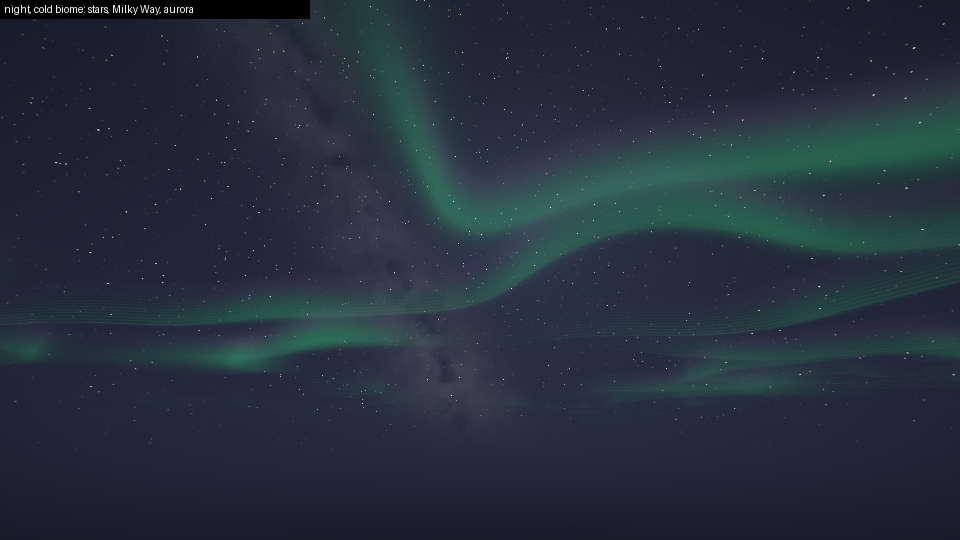
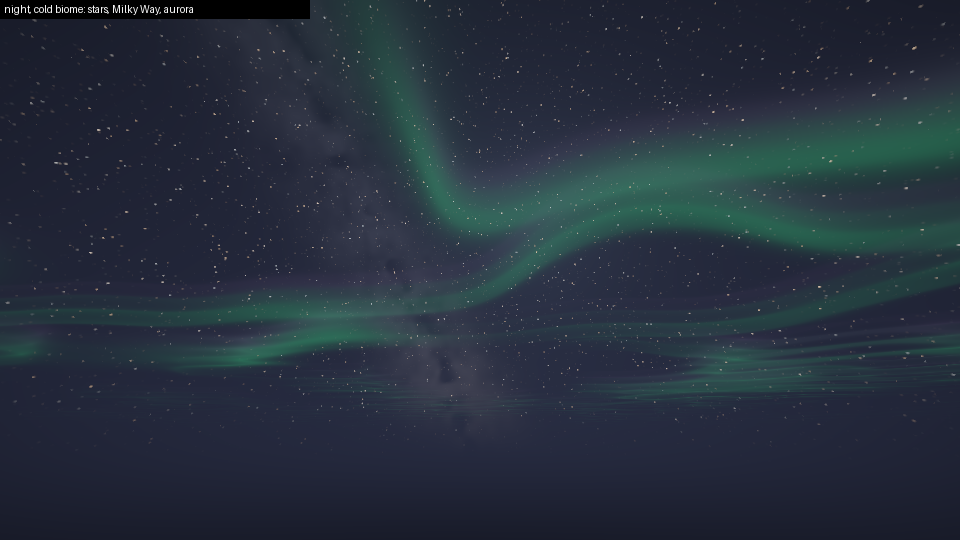
docs: 1.1.1 previews, dynamic lights and changelog

Changed region(s): [[0.9062, 0.6222, 0.9375, 0.6519]]

diff --git a/tools/preview.py b/tools/preview.py
@@ -146,7 +146,7 @@ class Frame:
         c, n = np.cos(angle), np.sin(angle)
         return np.stack([c * d[..., 0] - n * d[..., 1], n * d[..., 0] + c * d[..., 1], d[..., 2]], -1)
 
-    def stars(self, cdir):
+    def stars(self, cdir, pixel_angle=0.0):
         grid = cdir * 220.0
         cell = np.floor(grid)
         idv = cell.astype(np.int64).astype(np.int32).view(U32)
@@ -159,7 +159,9 @@ class Frame:
         tw = 0.7 + 0.3 * np.sin(self.time * (2 + 5 * unit_float(h2 + U32(3))) + presence * 60)
         temp = unit_float(hash_u32(h2 + U32(11)))[..., None]
         tint = np.array([1.0, 0.72, 0.5]) * (1 - temp) + np.array([0.7, 0.82, 1.0]) * temp
-        v = (0.05 + mag * 2.5) * tw * np.exp(-dd * dd * 28) * (presence <= 0.06)
+        spot = max(0.19, pixel_angle * 220 * 0.7)
+        energy = 0.19 ** 2 / spot ** 2
+        v = (0.05 + mag * 2.5) * tw * energy * np.exp(-dd * dd / spot ** 2) * (presence <= 0.06)
         return tint * v[..., None]
 
     def milky_way(self, c):
@@ -177,33 +179,70 @@ class Frame:
         tint = np.array([0.55, 0.62, 0.9]) * (1 - core3) + np.array([1.0, 0.82, 0.62]) * core3
         return tint * (band * glow * (0.025 + core * 0.06) * (1 - dust))[..., None]
 
-    def aurora(self, d, layers=14):
+    def aurora_layers(self, d, layers=14, jitter=None):
+        """1.1.0's ray march, with its per-ray jitter."""
         drift = np.array([self.time * 0.004, self.time * 0.0015])
         light = np.zeros(d.shape)
         dy = np.maximum(d[..., 1], 0.02)
         for i in range(layers):
-            h = (i + 0.5) / layers
-            xz = d[..., [0, 2]] / dy[..., None] * (1 + h * 0.45) * 0.55
-            warp = np.stack([value_noise2(xz * 1.3 + drift * 3), value_noise2(xz * 1.3 + 9.1)], -1) * 0.6
-            ridge = 1 - np.abs(value_noise2((xz + warp) * np.array([2.2, 0.6]) + drift) * 2 - 1)
-            curtain = ridge ** 14 * smoothstep(0.3, 0.6, value_noise2(xz * 0.5 - drift))
-            s = smoothstep(0.25, 1.0, h)
-            color = np.array([0.1, 1.0, 0.45]) * (1 - s) + np.array([0.55, 0.2, 0.9]) * s
-            light += color * (curtain * np.exp(-h * 2.2))[..., None]
+            h = (i + (0.5 if jitter is None else jitter)) / layers * np.ones(d.shape[:-1])
+            xz = d[..., [0, 2]] / dy[..., None] * ((1 + h * 0.45) * 0.55)[..., None]
+            g, mask = self.aurora_field(xz, drift)
+            curtain = (1 - np.abs(g)) ** 14 * mask
+            light += self.aurora_color(h) * (curtain * np.exp(-h * 2.2))[..., None]
         return light / layers * 0.35 * (smoothstep(0.02, 0.25, d[..., 1]) * (d[..., 1] > 0.02))[..., None]
 
-    def night(self, d, aurora_activity=1.0):
+    @staticmethod
+    def aurora_field(xz, drift):
+        warp = np.stack([value_noise2(xz * 1.3 + drift * 3), value_noise2(xz * 1.3 + 9.1)], -1) * 0.6
+        g = value_noise2((xz + warp) * np.array([2.2, 0.6]) + drift) * 2 - 1
+        return g, smoothstep(0.3, 0.6, value_noise2(xz * 0.5 - drift))
+
+    @staticmethod
+    def aurora_color(h):
+        s = smoothstep(0.25, 1.0, np.asarray(h))[..., None] if np.ndim(h) else smoothstep(0.25, 1.0, h)
+        return np.array([0.1, 1.0, 0.45]) * (1 - s) + np.array([0.55, 0.2, 0.9]) * s
+
+    def aurora(self, d):
+        """1.1.1's: each stretch of the ray through the layer integrated exactly."""
+        segments = [2, 3, 4, 6][min(self.quality, 3)]
+        drift = np.array([self.time * 0.004, self.time * 0.0015])
+        dy = np.maximum(d[..., 1], 0.02)
+        base = d[..., [0, 2]] / dy[..., None] * 0.55
+        below = self.aurora_field(base, drift)
+        light = np.zeros(d.shape)
+        k = 14.0
+        for i in range(segments):
+            top = (i + 1) / segments
+            above = self.aurora_field(base * (1 + top * 0.45), drift)
+            g0, g1 = below[0], above[0]
+            a, b = np.exp(-k * np.abs(g0)), np.exp(-k * np.abs(g1))
+            span = np.abs(g1 - g0) * k
+            same = np.abs(a - b) / np.maximum(span, 1e-3)
+            cross = (2 - a - b) / np.maximum(span, 1e-3)
+            integral = np.where(span < 1e-3, 0.5 * (a + b), np.where(g0 * g1 >= 0, same, cross))
+            middle = (i + 0.5) / segments
+            glow = integral * 0.5 * (below[1] + above[1])
+            light += self.aurora_color(middle) * (glow * np.exp(-middle * 2.2))[..., None]
+            below = above
+        return light / segments * 0.35 * (smoothstep(0.02, 0.25, d[..., 1]) * (d[..., 1] > 0.02))[..., None]
+
+    def night(self, d, aurora_activity=1.0, pixel_angle=0.0, old_aurora=False):
         darkness = (1 - self.sun_visibility()) * (1 - self.overcast())
         if darkness <= 0:
             return np.zeros(d.shape)
         ext = smoothstep(-0.05, 0.25, d[..., 1])[..., None]
         c = self.celestial(d)
-        light = (self.stars(c) + self.milky_way(c)) * ext
-        light += self.aurora(d) * aurora_activity
+        light = (self.stars(c, pixel_angle) + self.milky_way(c)) * ext
+        if old_aurora:
+            jitter = unit_float(hash_u32(d.astype(np.float32).view(U32)[..., 0] ^ hash_u32(d.astype(np.float32).view(U32)[..., 1])))
+            light += self.aurora_layers(d, jitter=jitter) * aurora_activity
+        else:
+            light += self.aurora(d) * aurora_activity
         return light * darkness * (d[..., 1] > -0.05)[..., None]
 
-    def sky(self, d, aurora_activity=1.0):
-        return self.sky_radiance(d) + self.sun_disc(d) + self.night(d, aurora_activity)
+    def sky(self, d, aurora_activity=1.0, pixel_angle=0.0, old_aurora=False):
+        return self.sky_radiance(d) + self.sun_disc(d) + self.night(d, aurora_activity, pixel_angle, old_aurora)
 
 
 def display(hdr, frame, bloom=None, saturation=1.1, warmth=1.0, vignette=True):
@@ -271,11 +310,54 @@ def sky_times():
 def night_sky():
     f = Frame(-0.6, temperature=0.0, quality=1)
     d = camera_rays(960, 540, yaw=np.radians(100), pitch=np.radians(28), fov=80)
-    label(to_image(display(f.sky(d, aurora_activity=1.0), f)), "night, cold biome: stars, Milky Way, aurora").save(OUT / "night-aurora.png")
+    pixel = np.radians(80) / 540
+    label(to_image(display(f.sky(d, 1.0, pixel), f)), "night, cold biome: stars, Milky Way, aurora").save(OUT / "night-aurora.png")
     d = camera_rays(960, 540, yaw=np.radians(-60), pitch=np.radians(45), fov=80)
     label(to_image(display(f.sky(d, aurora_activity=0.0), f)), "night, temperate: Milky Way").save(OUT / "night-milky-way.png")
     f_low = Frame(-0.6, quality=0)
     label(to_image(display(f_low.sky(d, aurora_activity=0.0), f_low)), "night, Low preset (simplified Milky Way)").save(OUT / "night-milky-way-low.png")
+
+
+def aurora_before_after():
+    f = Frame(-0.6, temperature=0.0, quality=1)
+    w, h, fov = 960, 540, 80
+    d = camera_rays(w, h, yaw=np.radians(100), pitch=np.radians(28), fov=fov)
+    pixel = np.radians(fov) / h
+    for name, old in (("aurora-before", True), ("aurora-after", False)):
+        img = to_image(display(f.sky(d, 1.0, pixel, old_aurora=old), f))
+        caption = "1.1.0: ray march with per-ray jitter" if old else "1.1.1: exact integral, no sampling noise"
+        label(img, caption).save(OUT / f"{name}.png")
+        crop = img.crop((560, 120, 800, 255)).resize((720, 405), Image.NEAREST)
+        label(crop, caption + " (3x crop)").save(OUT / f"{name}-zoom.png")
+
+
+def dynamic_lights():
+    """A stone floor and wall at night, lit by a held light source: block light falls off one
+    level a block from it, through the pack's torch curve, in the source's [[lights]] colour."""
+    w, h = 320, 220
+    panels = []
+    f = Frame(-0.6)
+    for name, color in (("torch", (1.0, 0.62, 0.32)), ("soul torch", (0.35, 0.8, 1.0)), ("amethyst", (0.75, 0.45, 1.0))):
+        ys, xs = np.mgrid[0:h, 0:w]
+        floor = ys > h * 0.55
+        bx = (xs - w / 2) / 16.0
+        bz = np.where(floor, (ys - h * 0.55) / 10.0, 0.0)
+        by = np.where(floor, 0.0, (h * 0.55 - ys) / 16.0)
+        dist = np.abs(bx) + np.abs(bz - 2.0) + np.abs(by - 1.0)
+        level = np.clip((15 - dist) / 15.0, 0, 1)
+        tint = np.array(color) / max(color)
+        tint = tint ** 2.2
+        block = tint * (level ** 4 * 2.2 + level ** 1.5 * 0.06)[..., None]
+        dynamic = tint * (np.clip(1 - dist / 14.0, 0, 1) ** 2 * 0.6)[..., None]
+        checker = (((np.floor(xs / 16) + np.floor(ys / 16)) % 2) * 0.06 + 0.42)
+        albedo = np.stack([checker, checker * 0.98, checker * 0.95], -1) ** 2.2
+        ambient = np.array([0.008, 0.009, 0.012]) + f.sky_radiance(np.array([[0, 1.0, 0]]))[0] * 0.3
+        img = albedo * (block + dynamic + ambient)
+        panels.append(label(to_image(display(img, f, vignette=False)), name))
+    out = Image.new("RGB", (w * 3, h))
+    for i, pnl in enumerate(panels):
+        out.paste(pnl, (w * i, 0))
+    out.save(OUT / "dynamic-lights.png")
 
 
 def cumulus_density(p, time, coverage=0.5, rain=0.0, detail=True):
@@ -432,7 +514,7 @@ def main():
     OUT.mkdir(exist_ok=True)
     import sys
     names = sys.argv[1:]
-    for step in (sky_times, night_sky, clouds, water, tone_curve, blue_noise):
+    for step in (sky_times, night_sky, aurora_before_after, dynamic_lights, clouds, water, tone_curve, blue_noise):
         if names and step.__name__ not in names:
             continue
         step()

diff --git a/README.md b/README.md
@@ -15,8 +15,9 @@ for 60 fps at 1080p on a laptop RTX 3050.
 - **HDR post chain**: every stage stores light through one invertible curve, the post passes undo it and work in
   half floats, and one filmic curve maps the result at the end. Exposure adapts to caves and nights.
 - **Sky**: analytic single scattering (Rayleigh and Mie phases, Kasten–Young air mass, ozone) with its own sun disc.
-- **Night sky**: twinkling stars and a procedural Milky Way with dust lanes, turning with the sky; auroras on some
-  nights and most nights in cold biomes.
+- **Night sky**: twinkling stars kept at least a pixel wide so they stay sharp and still, a procedural Milky Way
+  with dust lanes, turning with the sky; auroras on some nights and most nights in cold biomes, each curtain's
+  glow integrated exactly along the ray, so they show no sampling noise.
 - **Clouds**: ray-marched cumulus at half resolution with Wrenninge's multiple-scattering approximation, a cirrus
   layer above, blue-noise dithering and temporal accumulation.
 - **Shadows**: percentage-closer soft shadows whose penumbra widens with the distance to the occluder, light tinted
@@ -25,8 +26,10 @@ for 60 fps at 1080p on a laptop RTX 3050.
   End, all at half resolution and accumulated over frames.
 - **Water**: waves, screen-space reflections falling back to the sky and clouds, optional mirror reflections,
   refraction, depth absorption and a sun glint.
-- **Lighting**: warm sunlight, blue sky ambient, warm block light with a slight direction, translucent foliage, wet
-  surfaces in rain, coloured lights from `[[lights]]` and dynamic lights.
+- **Lighting**: warm sunlight, blue sky ambient, block light with a slight direction in the colour of its sources
+  (warm torches, blue soul fire, violet amethyst), translucent foliage, wet surfaces in rain.
+- **Dynamic lights**: held and dropped torches, lanterns, glowstone and lava buckets, burning entities and flame
+  particles light their surroundings in their colour.
 - **Picture**: Jimenez's 13-tap bloom from HDR, temporal filtering with colour clipping, warm grade, vignette.
 
 ## Installation
@@ -47,7 +50,7 @@ The pack replaces vanilla's clouds, sun and stars; the moon stays.
 | Mist steps | 3 | 4 | 6 | 8 |
 | Shadow blocker search / filter taps | 0 / 4 (plain PCF) | 5 / 8 | 8 / 12 | 12 / 16 |
 | Water screen-space reflection steps | sky only | 14 | 22 | 32 |
-| Aurora layers | 6 | 10 | 14 | 20 |
+| Aurora stretches | 2 | 3 | 4 | 6 |
 | Milky Way | simplified | dust lanes | dust lanes | dust lanes |
 | Caustics | off | on | on | on |
 
@@ -81,6 +84,14 @@ reflections render the world a second time and can double the terrain cost, so t
 The options screen opens on the preset and exposure, with pages for Lighting (shadows, light shafts, mist, fog), Sky
 (clouds, night sky, auroras, wind), Water (waves, mirror reflections) and Picture (bloom, saturation, warmth,
 vignette, temporal filter).
+
+## Dynamic lights
+
+Horizon has its own dynamic lights: **Options → Video Settings → Dynamic Lights** (off by default). With it on, a
+light source held by a player or mob, dropped on the ground, or an entity on fire raises the block light around it
+(the 16 sources nearest the camera, within 96 blocks), and Velumbra lights it in the source's `[[lights]]` colour.
+Flame particles add their own glow. **Dynamic light strength** on the Lighting page scales it; 0 turns the pack's
+part off. Horizon's light doesn't stop at walls, and the pack can't add a shadow to it: it sees no light position.
 
 ## Connected glass
 
@@ -132,8 +143,6 @@ tools/                       check, prelude, previews, blue-noise generator
   before the post chain takes over in half floats.
 - Entities, block entities, particles and the hand are drawn by Horizon with vanilla's lighting: API 0.1 has no
   stage for them.
-- The sky stage gets no pixel position, so the auroras use per-ray hash noise rather than blue noise; the
-  temporal filter smooths it.
 
 ## License
 

diff --git a/CHANGELOG.md b/CHANGELOG.md
@@ -3,6 +3,20 @@
 All notable changes to Velumbra are documented here. The format follows
 [Keep a Changelog](https://keepachangelog.com/en/1.1.0/) and the project uses [Semantic Versioning](https://semver.org/).
 
+## [1.1.1] - 2026-11-17
+
+### Added
+- Block light takes the colour of its sources from the pack's `[[lights]]`: warm torches and lava, blue soul fire,
+  violet amethyst, cold sea lanterns.
+- Dynamic lights: held and dropped light sources, burning entities and flame particles, with a strength setting
+  (needs Horizon's Dynamic Lights setting).
+
+### Fixed
+- Grain in the auroras: each curtain's glow is now integrated exactly along the ray instead of ray-marched with
+  per-ray noise.
+- Stars crawling and flickering as the view turns: their spot never shrinks below a pixel.
+- Less grain in night clouds: longer temporal accumulation when the camera holds still.
+
 ## [1.1.0] - 2026-11-17
 
 ### Added
